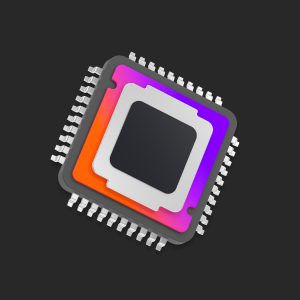
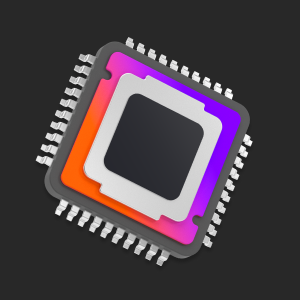
Fix sizing of processer on pfp

Changed region(s): [[0.12, 0.12, 0.84, 0.9]]

diff --git a/README.md b/README.md
@@ -9,6 +9,8 @@ Juxta is a high-performance, easy-to-use Discord bot.
 - Music
 - Levels/XP
 - Money (maybe)
+- Streamer Role (when people go live)
+- Streamer Announcements
 
 ## Juxta uses:
 - discord.py
